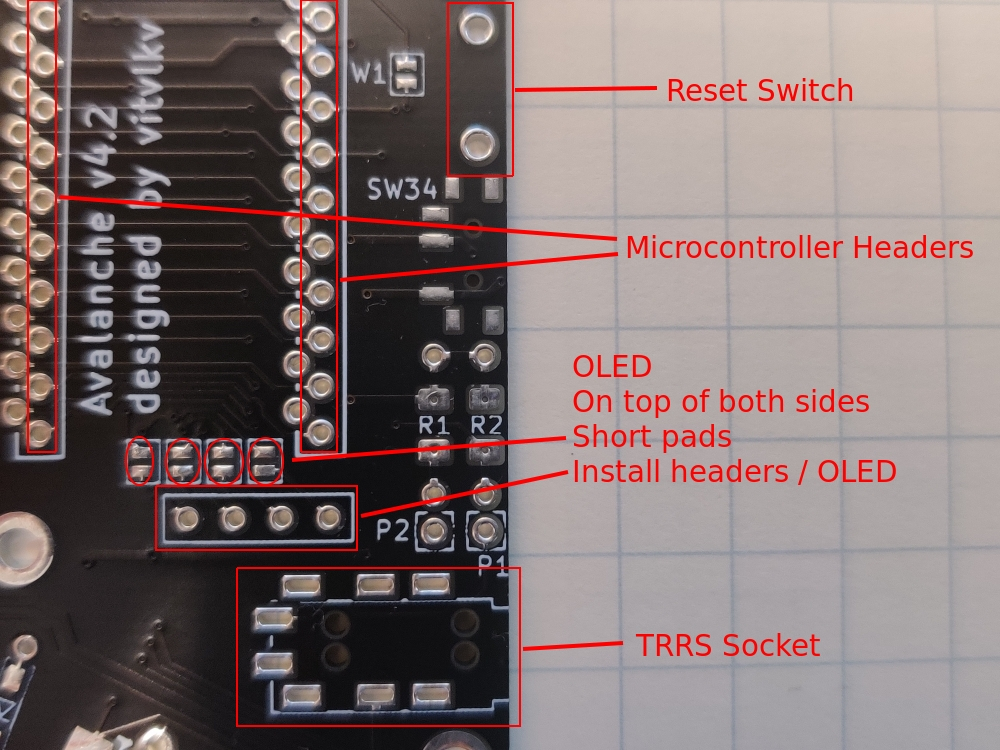
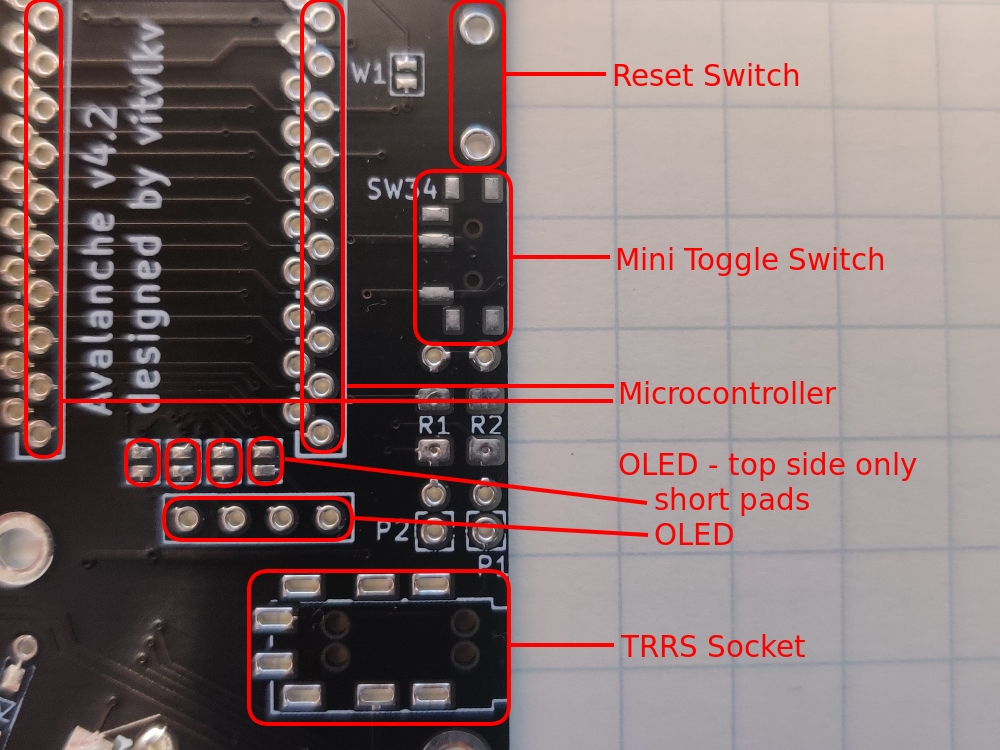
Update documentation to include micro switch.

Changed region(s): [[0.0, 0.0, 0.992, 0.9813], [0.589, 0.828, 0.837, 0.8893]]

diff --git a/parts_list.md b/parts_list.md
@@ -24,10 +24,10 @@ NOTE: Rotary encoders and knobs are optional. But I recommend them. That is why 
 
 Optional LED. Choose either backlight or per-switch (not both)
 
-| #  | Name                                | Quantity | Example URL                                           |
-|----|-------------------------------------|----------|-------------------------------------------------------|
-| 18 | LED (backlight) WS2812B             | 12       | https://aliexpress.ru/item/32774508291.html           |
-| 19 | LED (per switch) SK6812 MINI-E      | 64       | https://aliexpress.ru/item/4000475685852.html         |
+| #  | Name                                 | Quantity | Example URL                                           |
+|----|--------------------------------------|----------|-------------------------------------------------------|
+| 18 | LED (backlight) WS2812B (for v1..v3) | 12       | https://aliexpress.ru/item/32774508291.html           |
+| 19 | LED (per switch) SK6812 MINI-E       | 64       | https://aliexpress.ru/item/4000475685852.html         |
 
 Optional for I2C connection (instead of serial)
 
@@ -35,9 +35,15 @@ Optional for I2C connection (instead of serial)
 |----|--------------------------------------|----------|-------------------------------------------------------|
 | 20 | Resistor 4.7K (through hole or SMD)  | 2        | https://aliexpress.ru/item/32882582185.html           |
 
-Optional
+Optional OLED Screen
 
 | #  | Name                          | Quantity | Example URL                                           |
 |----|-------------------------------|----------|-------------------------------------------------------|
 | 21 | OLED screen (for v1..v3)      | 2        | https://aliexpress.ru/item/32798439084.html           |
 | 22 | OLED screen (for v4)          | 2        | https://aliexpress.ru/item/32896971385.html           |
+
+Optional OLED Screen/LED power toggle switch
+
+| #  | Name                          | Quantity | Example URL                                           |
+|----|-------------------------------|----------|-------------------------------------------------------|
+| 23 | Side access toggle switch     | 2        | https://aliexpress.ru/item/4001295557976.html         |

diff --git a/build_instructions.md b/build_instructions.md
@@ -26,16 +26,18 @@ Install the ProMicro on the opposite side as the sockets and diodes. Install the
 
 Solder the sockets to the PCBs. Solder one pin, adjust by resoldering the one pin until socket is positioned at 90 degrees. Only after that solder other pins. Be careful when soldering the socket's pins to avoid bridging the unused pads. You should not short circuit unused pads with the pins.
 
-For low profile Mill-Max type headers, you can now solder the ProMicro header pins. This is a good time to re-use the diode legs if through-hole diodes were used. Solid core 24 AWG wire also works very well. Put some painter's tape (or similar) between sockets and ProMicros before soldering the pins. Otherwise the pins could be soldered with the sockets.
+For low profile Mill-Max type headers, you can now solder the ProMicro header pins. This is a good time to re-use the diode legs if through-hole diodes were used. Solid core 24 AWG wire also works very well. Put some painter's tape (or similar) between sockets and ProMicros before soldering the pins, otherwise solder could leak into the sockets.
 
 
-### Reset switch and TRRS socket
+### Reset switch, TRRS socket, toggle switch.
 
 Solder them on the same side as the ProMicro.
 
+The toggle switch controls power to the OLED and LEDs, which is useful for wireless builds. For wired builds the switch can be replaced, and permenantly enabled, by connecting the SW34 pads with a wire.
+
 ### OLED
 
-Install headers below the ProMicro sockets and bridge the nearby pads on the same side as the OLED. If the ProMicro has already been installed you may need to remobe it in order to access the pads.
+Install headers below the ProMicro sockets and bridge the nearby pads on the same side as the OLED. If the ProMicro has already been installed you may need to remove it in order to access the pads.
 
 
 ### Choose Serial or I2C
